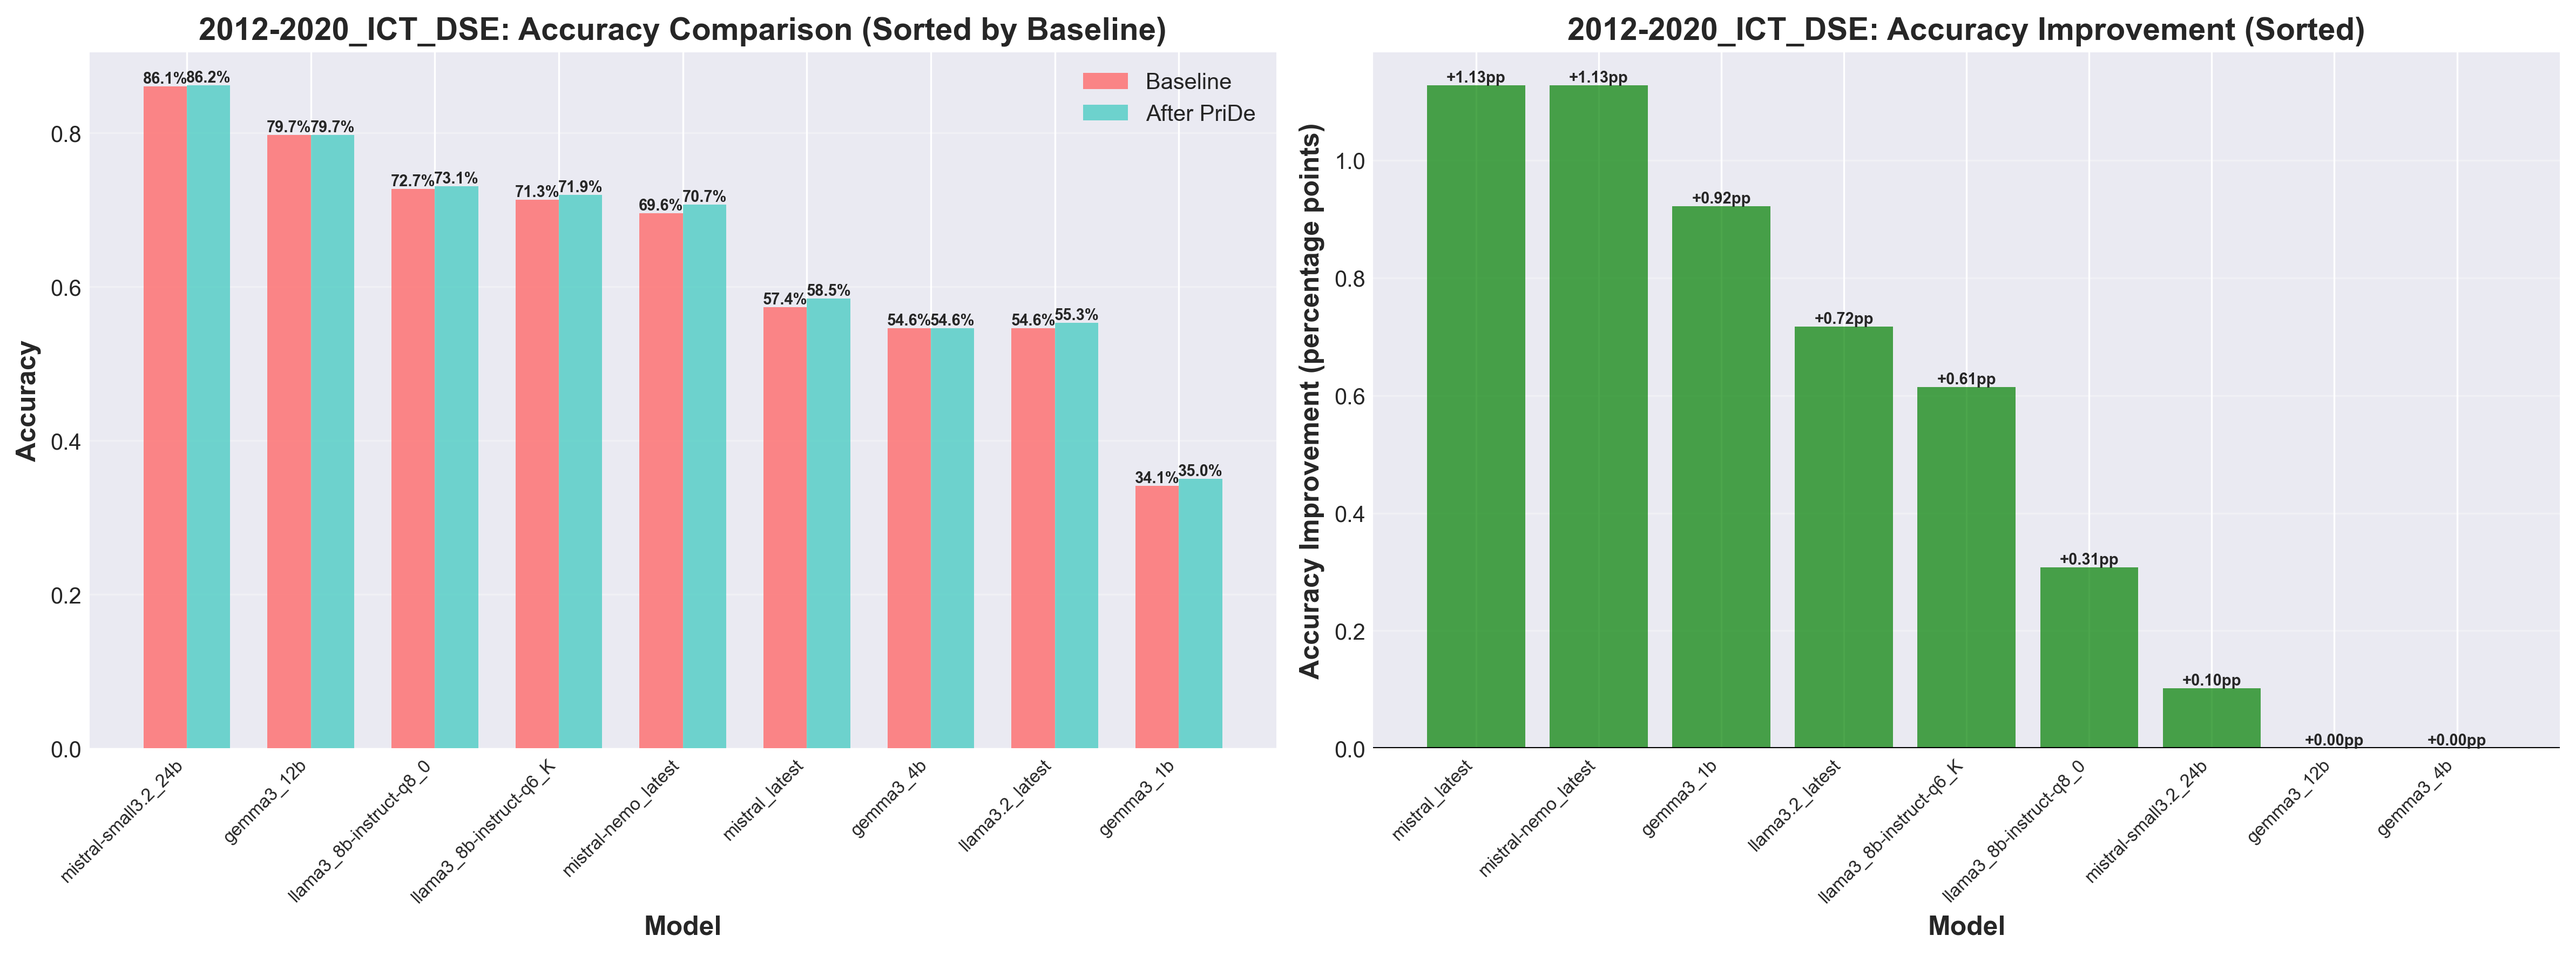
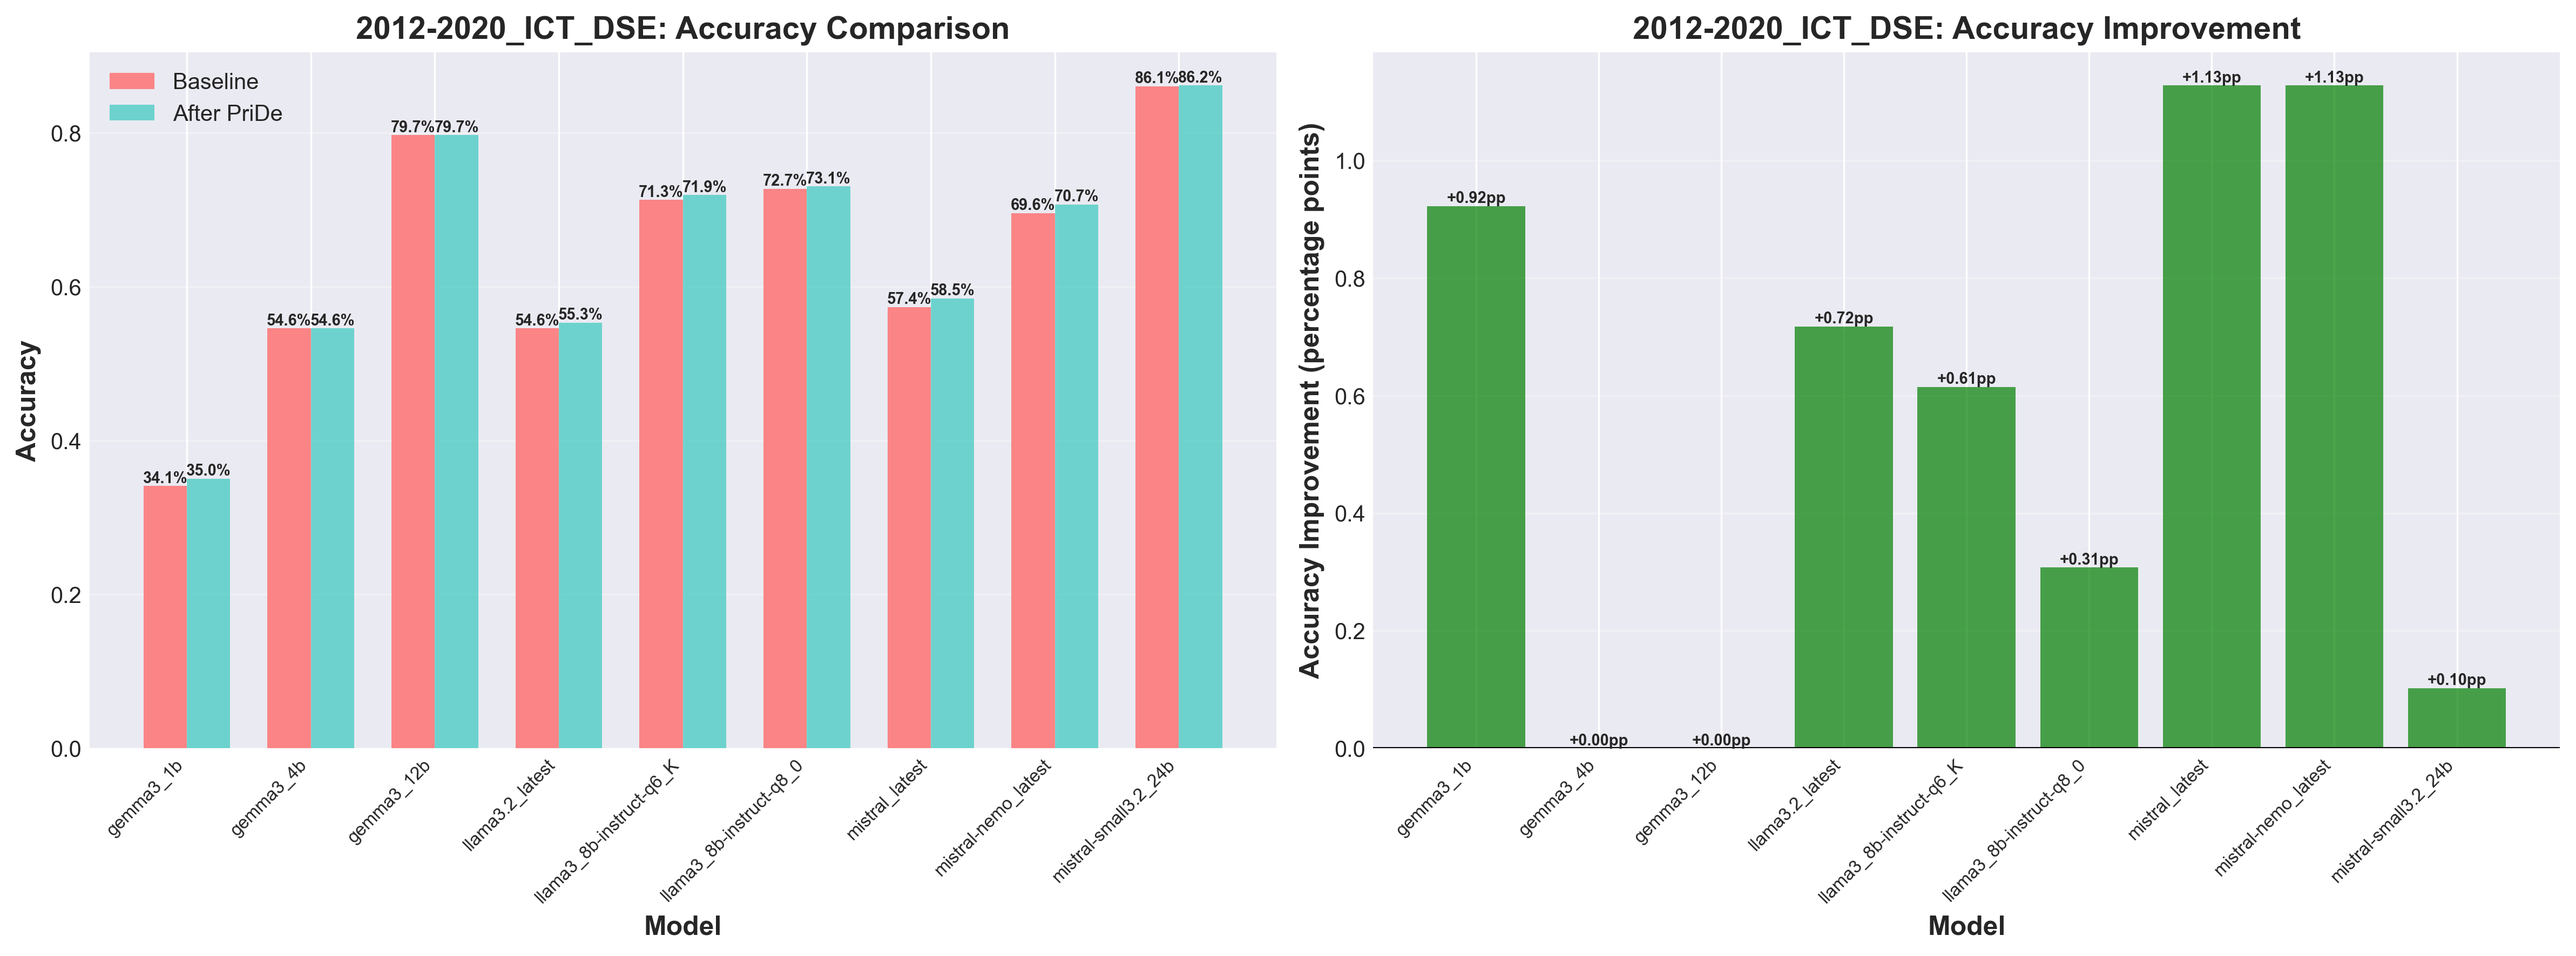
updated new figures and code

diff --git a/pride_batch_summary.py b/pride_batch_summary.py
@@ -20,6 +20,30 @@ plt.style.use('seaborn-v0_8-darkgrid')
 sns.set_palette("husl")
 
 
+# Define custom model ordering
+MODEL_ORDER = [
+    'gemma3_1b',
+    'gemma3_4b',
+    'gemma3_12b',
+    'llama3.2_latest',
+    'llama3_8b-instruct-q6_K',
+    'llama3_8b-instruct-q8_0',
+    'mistral_latest',
+    'mistral-nemo_latest',
+    'mistral-small3.2_24b'
+]
+
+def sort_models_custom(models):
+    """Sort models according to the custom order defined in MODEL_ORDER."""
+    def get_sort_key(model):
+        try:
+            return MODEL_ORDER.index(model)
+        except ValueError:
+            # If model not in list, put it at the end
+            return len(MODEL_ORDER)
+    return sorted(models, key=get_sort_key)
+
+
 class PriDeDebiasing:
     """PriDe: Debiasing with Prior estimation for multiple choice questions."""
 
@@ -288,10 +312,8 @@ def plot_dataset_accuracy_comparison(dataset: str, models_data: Dict, output_pat
     """Compare accuracy across all models for a dataset."""
     fig, (ax1, ax2) = plt.subplots(1, 2, figsize=(16, 6))
     
-    # Sort models by baseline accuracy (descending)
-    models = sorted(models_data.keys(), 
-                   key=lambda m: models_data[m]['baseline']['overall_accuracy'], 
-                   reverse=True)
+    # Sort models using custom order
+    models = sort_models_custom(models_data.keys())
     baseline_accs = [models_data[m]['baseline']['overall_accuracy'] for m in models]
     debiased_accs = [models_data[m]['debiased']['overall_accuracy'] for m in models]
     improvements = [d - b for b, d in zip(baseline_accs, debiased_accs)]
@@ -305,7 +327,7 @@ def plot_dataset_accuracy_comparison(dataset: str, models_data: Dict, output_pat
     
     ax1.set_xlabel('Model', fontsize=12, fontweight='bold')
     ax1.set_ylabel('Accuracy', fontsize=12, fontweight='bold')
-    ax1.set_title(f'{dataset}: Accuracy Comparison (Sorted by Baseline)', fontsize=14, fontweight='bold')
+    ax1.set_title(f'{dataset}: Accuracy Comparison', fontsize=14, fontweight='bold')
     ax1.set_xticks(x)
     ax1.set_xticklabels(models, rotation=45, ha='right', fontsize=8)
     ax1.legend()
@@ -321,11 +343,8 @@ def plot_dataset_accuracy_comparison(dataset: str, models_data: Dict, output_pat
         ax1.text(bar.get_x() + bar.get_width()/2., height,
                 f'{height*100:.1f}%', ha='center', va='bottom', fontsize=7, fontweight='bold')
     
-    # Right: Improvements (sorted by improvement value)
-    models_by_improvement = sorted(models_data.keys(), 
-                                   key=lambda m: models_data[m]['debiased']['overall_accuracy'] - 
-                                                models_data[m]['baseline']['overall_accuracy'], 
-                                   reverse=True)
+    # Right: Improvements (custom order)
+    models_by_improvement = sort_models_custom(models_data.keys())
     improvements_sorted = [models_data[m]['debiased']['overall_accuracy'] - 
                           models_data[m]['baseline']['overall_accuracy'] 
                           for m in models_by_improvement]
@@ -335,7 +354,7 @@ def plot_dataset_accuracy_comparison(dataset: str, models_data: Dict, output_pat
     ax2.axhline(y=0, color='black', linestyle='-', linewidth=1)
     ax2.set_xlabel('Model', fontsize=12, fontweight='bold')
     ax2.set_ylabel('Accuracy Improvement (percentage points)', fontsize=12, fontweight='bold')
-    ax2.set_title(f'{dataset}: Accuracy Improvement (Sorted)', fontsize=14, fontweight='bold')
+    ax2.set_title(f'{dataset}: Accuracy Improvement', fontsize=14, fontweight='bold')
     ax2.set_xticks(range(len(models_by_improvement)))
     ax2.set_xticklabels(models_by_improvement, rotation=45, ha='right', fontsize=8)
     ax2.grid(axis='y', alpha=0.3)
@@ -358,9 +377,8 @@ def plot_dataset_bias_comparison(dataset: str, models_data: Dict, output_path: P
     
     width = 0.35
     
-    # Position Bias Score (sorted by baseline, ascending - lower is better)
-    models_bias = sorted(models_data.keys(), 
-                        key=lambda m: models_data[m]['baseline']['position_bias_score'])
+    # Position Bias Score (custom order)
+    models_bias = sort_models_custom(models_data.keys())
     baseline_bias = [models_data[m]['baseline']['position_bias_score'] for m in models_bias]
     debiased_bias = [models_data[m]['debiased']['position_bias_score'] for m in models_bias]
     
@@ -385,9 +403,8 @@ def plot_dataset_bias_comparison(dataset: str, models_data: Dict, output_path: P
         ax1.text(bar.get_x() + bar.get_width()/2., height,
                 f'{height:.2f}', ha='center', va='bottom', fontsize=7, fontweight='bold')
     
-    # Recall Std (sorted by baseline, ascending - lower is better)
-    models_rstd = sorted(models_data.keys(), 
-                        key=lambda m: models_data[m]['baseline']['recall_std'])
+    # Recall Std (custom order)
+    models_rstd = sort_models_custom(models_data.keys())
     baseline_rstd = [models_data[m]['baseline']['recall_std'] for m in models_rstd]
     debiased_rstd = [models_data[m]['debiased']['recall_std'] for m in models_rstd]
     
@@ -412,9 +429,8 @@ def plot_dataset_bias_comparison(dataset: str, models_data: Dict, output_path: P
         ax2.text(bar.get_x() + bar.get_width()/2., height,
                 f'{height:.2f}', ha='center', va='bottom', fontsize=7, fontweight='bold')
     
-    # Chi-square statistic (sorted by baseline, ascending - lower is better)
-    models_chi2 = sorted(models_data.keys(), 
-                        key=lambda m: models_data[m]['baseline']['chi2_stat'])
+    # Chi-square statistic (custom order)
+    models_chi2 = sort_models_custom(models_data.keys())
     baseline_chi2 = [models_data[m]['baseline']['chi2_stat'] for m in models_chi2]
     debiased_chi2 = [models_data[m]['debiased']['chi2_stat'] for m in models_chi2]
     
@@ -439,10 +455,8 @@ def plot_dataset_bias_comparison(dataset: str, models_data: Dict, output_path: P
         ax3.text(bar.get_x() + bar.get_width()/2., height,
                 f'{height:.1f}', ha='center', va='bottom', fontsize=7, fontweight='bold')
     
-    # Chi-square p-value (sorted by baseline, descending - higher is better)
-    models_pval = sorted(models_data.keys(), 
-                        key=lambda m: models_data[m]['baseline']['chi2_pvalue'],
-                        reverse=True)
+    # Chi-square p-value (custom order)
+    models_pval = sort_models_custom(models_data.keys())
     baseline_pval = [models_data[m]['baseline']['chi2_pvalue'] for m in models_pval]
     debiased_pval = [models_data[m]['debiased']['chi2_pvalue'] for m in models_pval]
     
@@ -475,9 +489,8 @@ def plot_dataset_bias_comparison(dataset: str, models_data: Dict, output_path: P
 
 def plot_dataset_distribution_comparison(dataset: str, models_data: Dict, output_path: Path):
     """Compare choice distributions across all models for a dataset."""
-    # Sort models by baseline position bias score (ascending - lower is better)
-    models = sorted(models_data.keys(), 
-                   key=lambda m: models_data[m]['baseline']['position_bias_score'])
+    # Sort models using custom order
+    models = sort_models_custom(models_data.keys())
     n_models = len(models)
     
     fig, axes = plt.subplots(n_models, 2, figsize=(14, 4 * n_models))
@@ -528,7 +541,7 @@ def plot_dataset_distribution_comparison(dataset: str, models_data: Dict, output
             ax2.text(bar.get_x() + bar.get_width()/2., height,
                     f'{height:.1f}%', ha='center', va='bottom', fontsize=8, fontweight='bold')
     
-    fig.suptitle(f'{dataset}: Choice Distribution Comparison (Sorted by Bias Score)', 
+    fig.suptitle(f'{dataset}: Choice Distribution Comparison', 
                 fontsize=16, fontweight='bold', y=0.995)
     plt.tight_layout()
     plt.savefig(output_path, dpi=300, bbox_inches='tight')
@@ -537,10 +550,8 @@ def plot_dataset_distribution_comparison(dataset: str, models_data: Dict, output
 
 def plot_dataset_accuracy_by_position(dataset: str, models_data: Dict, output_path: Path):
     """Compare accuracy by position across all models for a dataset."""
-    # Sort models by baseline overall accuracy (descending - higher is better)
-    models = sorted(models_data.keys(), 
-                   key=lambda m: models_data[m]['baseline']['overall_accuracy'],
-                   reverse=True)
+    # Sort models using custom order
+    models = sort_models_custom(models_data.keys())
     n_models = len(models)
     
     fig, axes = plt.subplots(n_models, 1, figsize=(14, 5 * n_models))
@@ -585,7 +596,7 @@ def plot_dataset_accuracy_by_position(dataset: str, models_data: Dict, output_pa
             ax.text(bar2.get_x() + bar2.get_width()/2., height2,
                    f'{height2*100:.1f}%', ha='center', va='bottom', fontsize=8, fontweight='bold')
     
-    fig.suptitle(f'{dataset}: Accuracy by Position (Sorted by Baseline Accuracy)',
+    fig.suptitle(f'{dataset}: Accuracy by Position',
                 fontsize=16, fontweight='bold', y=0.995)
     plt.tight_layout()
     plt.savefig(output_path, dpi=300, bbox_inches='tight')
